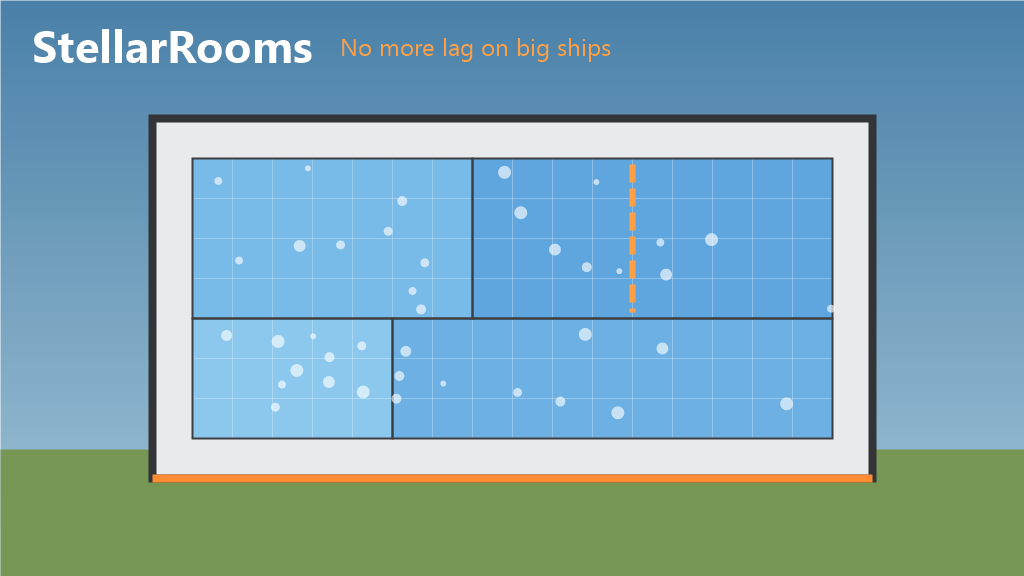
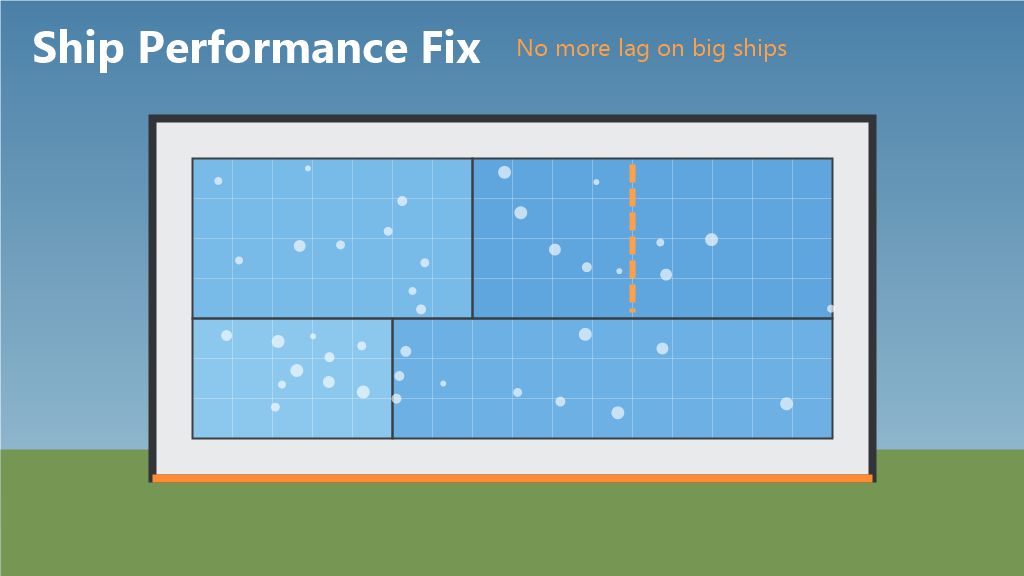
Rename to Ship Performance Fix

Changed region(s): [[0.25, 0.0312, 0.7812, 0.125], [0.0625, 0.0312, 0.2188, 0.125]]

diff --git a/src/ShipPerformanceFix/RoomsDev.cs b/src/ShipPerformanceFix/RoomsDev.cs
@@ -14,7 +14,7 @@ using Ships.Services;
 using Stellar.Shared;
 using UnityEngine;
 
-namespace StellarRooms
+namespace ShipPerformanceFix
 {
     /// <summary>
     /// Dev commands (UserData/stellar_rooms_cmd.txt), plus timers on the room, hull mesh and collider updates:
@@ -124,7 +124,7 @@ namespace StellarRooms
         {
             _harness?.Update();
             if (_spikeMs > 0f && Time.unscaledDeltaTime * 1000f > _spikeMs)
-                RoomsMod.Log.Msg($"[DEV] spike frame {Time.frameCount}: {Time.unscaledDeltaTime * 1000f:F1} ms");
+                ShipPerfMod.Log.Msg($"[DEV] spike frame {Time.frameCount}: {Time.unscaledDeltaTime * 1000f:F1} ms");
         }
 
         /// <summary>
@@ -272,7 +272,7 @@ namespace StellarRooms
         private static void TimedStop(long __state, System.Reflection.MethodBase __originalMethod)
         {
             double ms = (Stopwatch.GetTimestamp() - __state) * 1000.0 / Stopwatch.Frequency;
-            if (ms > 0.5) RoomsMod.Log.Msg($"[DEV] {__originalMethod.DeclaringType.Name}.{__originalMethod.Name} {ms:F2} ms");
+            if (ms > 0.5) ShipPerfMod.Log.Msg($"[DEV] {__originalMethod.DeclaringType.Name}.{__originalMethod.Name} {ms:F2} ms");
         }
 
         private static readonly Stopwatch RoomsWatch = new Stopwatch();
@@ -283,7 +283,7 @@ namespace StellarRooms
         {
             RoomsWatch.Stop();
             if (RoomsWatch.Elapsed.TotalMilliseconds > 0.5)
-                RoomsMod.Log.Msg($"[DEV] UpdateRooms {RoomsWatch.Elapsed.TotalMilliseconds:F2} ms ({(RoomsFastPath.Enabled ? RoomsFastPath.LastPath : "original")})");
+                ShipPerfMod.Log.Msg($"[DEV] UpdateRooms {RoomsWatch.Elapsed.TotalMilliseconds:F2} ms ({(RoomsFastPath.Enabled ? RoomsFastPath.LastPath : "original")})");
         }
     }
 }

diff --git a/src/ShipPerformanceFix/ShipPerfMod.cs b/src/ShipPerformanceFix/ShipPerfMod.cs
@@ -1,13 +1,13 @@
 using MelonLoader;
 
-[assembly: MelonInfo(typeof(StellarRooms.RoomsMod), "StellarRooms", "0.1.0", "tidic84")]
+[assembly: MelonInfo(typeof(ShipPerformanceFix.ShipPerfMod), "ShipPerformanceFix", "0.1.0", "tidic84")]
 [assembly: MelonGame("CuriousOwlGames", "StellarDrive")]
 
-namespace StellarRooms
+namespace ShipPerformanceFix
 {
-    public class RoomsMod : MelonMod
+    public class ShipPerfMod : MelonMod
     {
-        internal static RoomsMod Instance { get; private set; }
+        internal static ShipPerfMod Instance { get; private set; }
         internal static MelonLogger.Instance Log => Instance.LoggerInstance;
 
         public override void OnInitializeMelon()
@@ -17,7 +17,7 @@ namespace StellarRooms
 #if DEV
             RoomsDev.Init(HarmonyInstance, Log);
 #endif
-            Log.Msg("StellarRooms ready.");
+            Log.Msg("ShipPerformanceFix ready.");
         }
 
 #if DEV

diff --git a/src/ShipPerformanceFix/RoomsFastPath.cs b/src/ShipPerformanceFix/RoomsFastPath.cs
@@ -10,7 +10,7 @@ using Ships.Rooms.Model;
 using UnityEngine;
 using WorldProvision.Interface.Services;
 
-namespace StellarRooms
+namespace ShipPerformanceFix
 {
     /// <summary>
     /// The game recomputes a ship's rooms after every hull change by clearing the air region around the change and

diff --git a/src/ShipPerformanceFix/ShipProf.cs b/src/ShipPerformanceFix/ShipProf.cs
@@ -9,7 +9,7 @@ using HarmonyLib;
 using MelonLoader;
 using UnityEngine;
 
-namespace StellarRooms
+namespace ShipPerformanceFix
 {
     /// <summary>
     /// Dev profiler for the game's ship code: times every method of the Ships assemblies and the world updaters

diff --git a/README.md b/README.md
@@ -1,10 +1,10 @@
-# StellarRooms
+# Ship Performance Fix
 
 A MelonLoader mod for **StellarDrive (Demo)**: no more freeze when you place or remove a hull panel on a big ship.
 
-![StellarRooms](Mods/Thumbnail.png)
+![Ship Performance Fix](Mods/Thumbnail.png)
 
-Part of the Stellar suite: [StellarAnchor](https://github.com/tidic84/StellarDrive-StellarAnchor) · [StellarBuild](https://github.com/tidic84/StellarDrive-StellarBuild) · [StellarFactory](https://github.com/tidic84/StellarDrive-StellarFactory) · [StellarLogistics](https://github.com/tidic84/StellarDrive-StellarLogistics). StellarRooms works on its own.
+Part of the Stellar suite: [StellarAnchor](https://github.com/tidic84/StellarDrive-StellarAnchor) · [StellarBuild](https://github.com/tidic84/StellarDrive-StellarBuild) · [StellarFactory](https://github.com/tidic84/StellarDrive-StellarFactory) · [StellarLogistics](https://github.com/tidic84/StellarDrive-StellarLogistics). Ship Performance Fix works on its own.
 
 ## Why the game freezes
 
@@ -12,7 +12,7 @@ After every hull change, the game recomputes the ship's rooms: the closed air vo
 
 ## What it does
 
-StellarRooms produces the same rooms and volumes as the game without the full walks:
+Ship Performance Fix produces the same rooms and volumes as the game without the full walks:
 
 - **Panel against the outside:** the outside is never cleared. A flood that reaches the edge of the octree is outside and stops there.
 - **Panel inside a room:** a flood starts from each side of the panel and stops as soon as the floods meet. If the room really is cut in two, only the piece cut off is walked and becomes a new room with the same air.
@@ -21,7 +21,7 @@ StellarRooms produces the same rooms and volumes as the game without the full wa
 
 Measured on a 20 × 10 × 20 two-deck hull (about 2,000 panels), room update per change on each machine:
 
-| Change | Game | StellarRooms |
+| Change | Game | Ship Performance Fix |
 | --- | --- | --- |
 | Panel against the outside | ~37 ms | < 1 ms |
 | Panel inside a room | 15–30 ms | ~1 ms |
@@ -30,18 +30,18 @@ Measured on a 20 × 10 × 20 two-deck hull (about 2,000 panels), room update per
 
 The hull mesh (3 to 8 ms) and colliders (~1 ms) are rebuilt by the game as before. They are chunked, so they do not grow with the ship.
 
-**Air density.** The game counts every voxel the octree splits during an update as vacuum, so a room's air thins a little with each panel you place inside it. With StellarRooms, a room keeps its density, and a hull closed in an atmosphere takes the atmosphere's density.
+**Air density.** The game counts every voxel the octree splits during an update as vacuum, so a room's air thins a little with each panel you place inside it. With Ship Performance Fix, a room keeps its density, and a hull closed in an atmosphere takes the atmosphere's density.
 
 ## Install
 
-With [Stellar Mod Manager](https://github.com/jollyname/StellarModManager), or extract `StellarDrive-StellarRooms.zip` into the game folder (MelonLoader 0.7.x).
+With [Stellar Mod Manager](https://github.com/jollyname/StellarModManager), or extract `StellarDrive-ShipPerformanceFix.zip` into the game folder (MelonLoader 0.7.x).
 
 Multiplayer: every machine computes its own rooms, so each player who installs it gets the gain on their own machine. Room ids never go over the network, and saves store the rooms by position, so players with and without the mod can play together.
 
 ## Building
 
 ```powershell
-./build.ps1    # Release build + dist/StellarDrive-StellarRooms.zip
+./build.ps1    # Release build + dist/StellarDrive-ShipPerformanceFix.zip
 ```
 
 Override the game path with `-GamePath "D:\SteamLibrary\steamapps\common\StellarDrive Demo"`. Building with `-p:DefineConstants=DEV` adds dev commands read from `UserData/stellar_rooms_cmd.txt`, with timers on the room, mesh and collider updates. The commands are `bigship`, `addpart`, `rmpart`, `addbox`, `rooms`, `roomcheck`, `fuzz`, `vacuum`, `roomsfast on|off`, `prof on [ms]|off` and `spikes <ms>`; see `RoomsDev.cs`.
